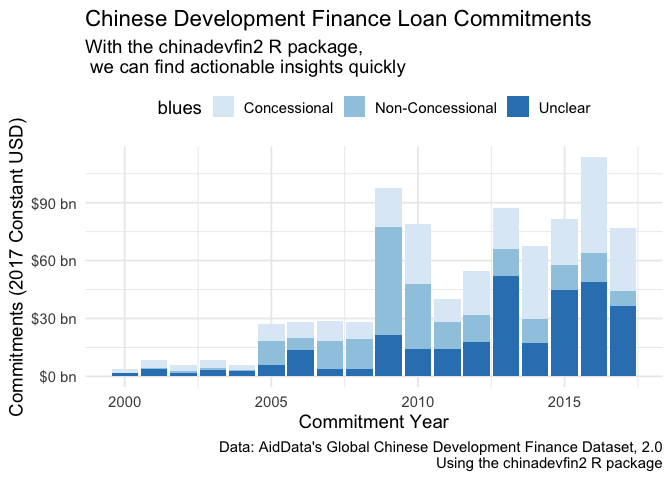
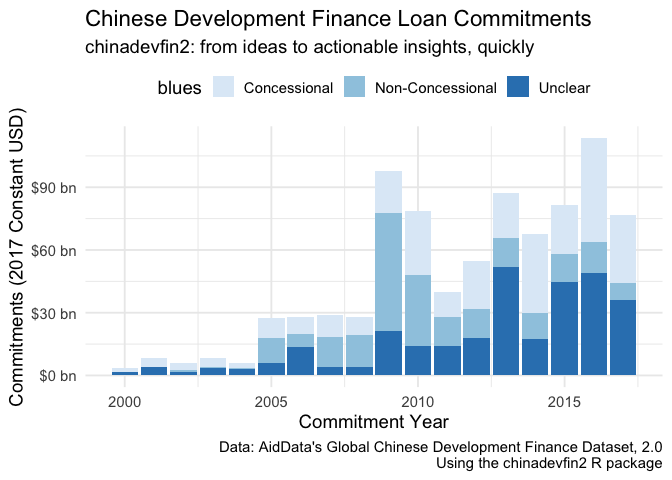
Another nit edit to README
nit edit to chart subtitle + added text to README

diff --git a/README.md b/README.md
@@ -188,6 +188,8 @@ concessional_vs_non_concenssional
 #> # ℹ 44 more rows
 ```
 
+Now we can use `ggplot2` to make a data visualization:
+
 ``` r
 concessional_vs_non_concenssional |> 
   ggplot(aes(x = commitment_year, y = commitments, fill = label_for_chart)) +
@@ -196,7 +198,7 @@ concessional_vs_non_concenssional |>
   theme_minimal(base_size = 14) +
   scale_y_continuous(labels = scales::label_dollar(suffix = " bn", scale = 1/10^9, accuracy = 1)) +
   labs(title = "Chinese Development Finance Loan Commitments",
-       subtitle = "With the chinadevfin2 R package,\n we can find actionable insights quickly",
+       subtitle = "chinadevfin2: from ideas to actionable insights, quickly",
        x = "Commitment Year",
        y = "Commitments (2017 Constant USD)",
        fill = "",
